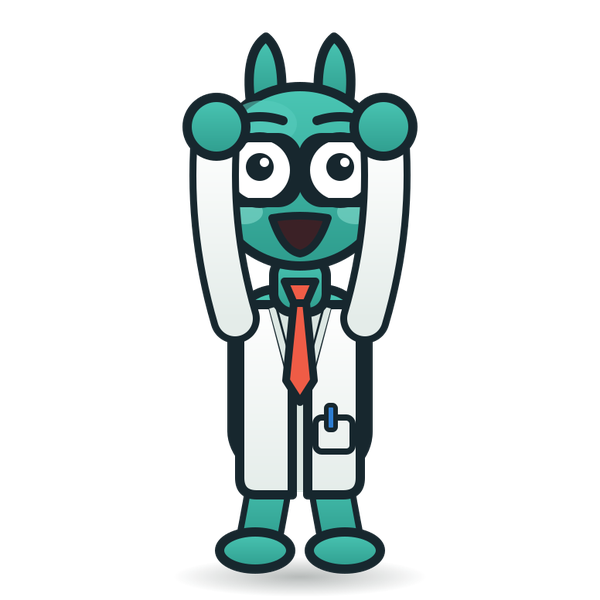
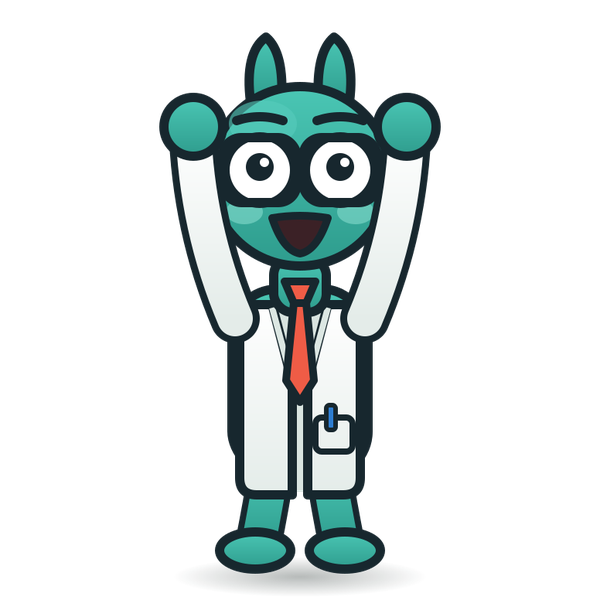
Mascot: hands off his face, and he stops sliding around the screen
Operator, watching a batch: "the fucking mascot's tweaking out all over the
screen all the time. In his hands, they're always covering his face."

Two defects with one cause — poses and motion were each authored against a
mental picture of the rig rather than measured against it.

HANDS ON THE FACE. Swept every pose primitive the director can produce across
its whole arc: 15 of 32 put a hand inside the head disc at some point.
`_a_stretched` ended with a hand 6px from the centre of his face; both of
`_a_overwhelmed`'s hands sat on it; `_a_get_buried`, `_a_pull_down_win`,
`_a_discover`, `_a_climb`, `_a_catch_fall`, `_a_shoved_bar`, `_a_stack_tiles`,
`_a_fail_recover`, `_a_juggle`, `_a_hoist_stack`, `_a_compressed`,
`_a_balance_beam` and `_a_cheer` all crossed it too. Three of the static
expression assets (cheer, shock, think) did as well.

Fixed at the ONE place an arm is drawn — `build_mascot_svg.arm()`, which all 67
pose call sites route through — not by retuning 15 coordinate sets. Nothing had
ever checked a wrist against the head, so every newly authored pose was free to
do it again; a keep-out at the chokepoint is what makes that unrepresentable.
A hand may still TOUCH the edge of his head (hands on the head is a real
gesture) but never cross onto the face.

The push follows the gesture's DOMINANT axis rather than being radial: a hand
reaching sideways goes further out sideways, an overhead reach goes further up.
[…]

Changed region(s): [[0.57, 0.15, 0.75, 0.54], [0.27, 0.15, 0.42, 0.54]]

diff --git a/data_learning/studio_render.py b/data_learning/studio_render.py
@@ -1693,7 +1693,6 @@ def render(slug: str, out_path: Path, voice: str | None = None,
             except Exception:  # noqa: BLE001
                 return "shock"
 
-        entries: dict = {}                 # seq index -> glide start (sweep-in)
         if _clean:
             # MASCOT-FIRST composition. Data is the camera: the video is built
             # around WHERE HE IS and WHAT HE'S DOING. He is NEVER parked — each
@@ -1736,14 +1735,11 @@ def render(slug: str, out_path: Path, voice: str | None = None,
                 except Exception:  # noqa: BLE001
                     hook_perf = gap_fill
             seq = []
-            # entries[k] = where Data's glide STARTS for seq[k] (his sweep-in
-            # point); absent -> he glides from his previous spot. Set for data
-            # beats so he sweeps UP onto the datum (a moving bit + smooth cadence).
-            entries: dict = {}
-
-            def _add(entry_tuple, entry_xy=None):
-                if entry_xy is not None:
-                    entries[len(seq)] = entry_xy
+            # Data no longer glides — he is PLACED at each cut (see the
+            # overlay loop). `_stage_on_data` still returns the old sweep-in
+            # point; it is accepted and ignored so the staging helpers keep one
+            # signature.
+            def _add(entry_tuple, _entry_xy=None):
                 seq.append(entry_tuple)
 
             # When the opening chart leads the hook, Data performs ON it from
@@ -2136,59 +2132,40 @@ def render(slug: str, out_path: Path, voice: str | None = None,
                 n_visuals += 1
         print(f"[studio] {n_visuals} distinct visuals, each shown once",
               flush=True)
-        # Mascots — Data TRAVELS. He glides from his previous spot to this
-        # beat's spot across the WHOLE beat (not a quick slide-then-park), so
-        # his x/y is always changing — he's never static in one place. A gentle
-        # bob rides on top. In CLEAN this traces a path around the frame; in
-        # legacy it still walks between numbers.
-        prev_tl = home
+        # Mascots — Data IS PLACED, HE DOES NOT SLIDE.
+        #
+        # He used to glide from his previous spot to each new one, sweeping in
+        # over the first ~30% of the window. With three beats that was three
+        # moves. The monotonic edit re-stages him on every SPAN so he stays in
+        # contact with whichever depiction is actually on screen — and that
+        # turned three glides into eight, one every four seconds. The operator
+        # watched it: "the fucking mascot's tweaking out all over the screen
+        # all the time."
+        #
+        # Every span boundary is a HARD CUT to a new chart, and a cut is the
+        # one moment repositioning is free — the viewer expects everything to
+        # change. So he is simply THERE, in position, when the new visual
+        # arrives. No travel, no sweep-in, no easing across the cut.
+        #
+        # The reason this is safe now and would not have been before: the glide
+        # existed to keep something moving, because a chart that finished
+        # building and then held was scored as a frozen frame. That is no
+        # longer true — each depiction is built across exactly its own span, so
+        # the charts carry 23.9 effective fps on their own (the floor is 11).
+        # Data's motion is his PERFORMANCE — the sprite is an animated loop of
+        # him acting on the data — which is the motion that was worth having
+        # all along. The frantic version was compensation for a static frame,
+        # and the operator named that too, months ago: "making the mascot moves
+        # its arm a lot to account for the fact that there's not enough
+        # motion."
         for k, (tlx, tly, w0, w1, _a, _f, _p, sc) in enumerate(seq):
             gi = masc_input[k]
-            # Glide across nearly the WHOLE beat (settle only the last ~8%), and
-            # ride a continuous 2D idle on top — a vertical bob plus a small
-            # horizontal sway — so Data is NEVER globally static, even when he's
-            # "parked". A static host is what the temporal grade reads as a held
-            # frame (the payoff's static pose). Keep him alive every frame.
-            # Sweep in FAST (arrive by ~30% of the beat), then hold position and
-            # PERFORM the animated action for the rest — so the sampled frames
-            # catch him ACTING on the data, not endlessly sliding across it.
-            arrive = w0 + max(0.4, (w1 - w0) * 0.30)
-            # A data beat sweeps in from its own entry point (onto the datum);
-            # otherwise Data glides from where he last was.
-            start = entries.get(k, prev_tl)
-            # THE IDLE IS A HOVER NOW, NOT THE GATE'S MOTION SOURCE.
-            #
-            # History, because this line has been retuned twice and each
-            # tuning was right about one constraint and wrong about another.
-            # The original `6*sin(1.3*t)` moved 0.26 px/frame — invisible to
-            # the temporal grade, and the channel posted nothing for eleven
-            # days. The fix cranked it to `30*sin(6.0*t)`: 6 px/frame, gate
-            # satisfied — but 6.0 rad/s is 0.95 Hz at ~1080 px/s^2 of
-            # acceleration, a visible one-per-second jiggle stacked on a
-            # card float wobbling at a different frequency. The operator
-            # watched the shipped videos and called it "a weird shaking
-            # motion". Both tunings chased one number and shipped the other.
-            #
-            # A third tuning moved the budget onto a whole-frame camera
-            # breath and left the mascot a gentle hover. Calmer, still fake,
-            # and the operator called it out again on 2026-08-25: rip the
-            # camera shake out all the way. Both are gone.
-            #
-            # The budget is carried by REAL motion now — struggle reps
-            # through the whole beat (charts._perf_phase) and an anchor that
-            # WALKS the ranking instead of parking when the build finishes
-            # (charts._tour_index). If a beat measures short, it needs more
-            # of that, not a wobble. His glide between beats and his
-            # performed bits are unchanged.
-            # NO HOVER OSCILLATION either (2026-08-25 ruling: "no semblance
-            # of the camera shake"). This 12px/9px sine pair was the last
-            # survivor of the shake family — a sprite bobbing on the spot in
-            # its own phase, which is what made two oscillations read as
-            # "weird shaking" in the first place. His MOTION is his glide to
-            # the beat's anchor (the piecewise below) and the performance
-            # baked into the sprite; neither needs a bob to be alive.
-            xe = f"({_piecewise([(w0, start[0]), (arrive, tlx)], 1)})"
-            ye = f"({_piecewise([(w0, start[1]), (arrive, tly)], 1)})"
+            # NO HOVER OSCILLATION (2026-08-25 ruling: "no semblance of the
+            # camera shake"). A sprite bobbing on the spot in its own phase is
+            # what made two oscillations read as "weird shaking" in the first
+            # place. His position is a constant for the whole span.
+            xe = f"{tlx:.0f}"
+            ye = f"{tly:.0f}"
             Sk = int(round(S * sc))
             off = (Sk - S) // 2            # keep the bigger sprite centred on target
             # HOLD HIM OFF THE PUNCH-INS. When the edit cuts to a datum, the
@@ -2203,7 +2180,6 @@ def render(slug: str, out_path: Path, voice: str | None = None,
                       f"eval=frame:"
                       f"enable='between(t,{w0:.2f},{w1:.2f}){_off_shots}'[mb{k}]")
             prev = f"mb{k}"
-            prev_tl = (tlx, tly)
         # NO CAMERA MOTION. Operator ruling 2026-08-25, verbatim: "that
         # camera shake that keeps plaguing our videos — rip it out all the
         # way, it's a cancer, I want no semblance of the camera shake to

diff --git a/data_learning/tests/test_hands_off_the_face.py b/data_learning/tests/test_hands_off_the_face.py
@@ -1,0 +1,145 @@
+"""No hand ever crosses onto Data's face, and he does not slide around.
+
+Both of these are operator findings from watching shipped videos:
+
+    "the fucking mascot's tweaking out all over the screen all the time.
+     In his hands, they're always covering his face."
+
+Two separate defects with one common cause — poses and motion were each
+authored against a mental picture rather than measured against the rig:
+
+  * HANDS ON THE FACE. Measured across every pose primitive the director can
+    produce, 15 of 32 put a hand inside the head disc at some point in its arc.
+    `_a_stretched` ended with a hand 6px from the centre of his face and
+    `_a_overwhelmed` put BOTH there. Nothing had ever checked a wrist against
+    the head, so each new authored pose was free to do it again — which is why
+    the fix is a keep-out at the ONE place an arm is drawn, and why this test
+    sweeps every primitive rather than the handful that were visibly wrong.
+  * SLIDING. He glided into position at the start of every window. With three
+    beats that was three moves; the monotonic edit re-stages him per SPAN, so
+    it became eight — one every four seconds.
+
+Runs with pytest OR standalone:
+    python3 data_learning/tests/test_hands_off_the_face.py
+"""
+from __future__ import annotations
+
+import inspect
+import math
+import re
+import sys
+import unittest
+from pathlib import Path
+
+_REPO = Path(__file__).resolve().parents[2]
+if str(_REPO) not in sys.path:
+    sys.path.insert(0, str(_REPO))
+
+import matplotlib  # noqa: E402
+matplotlib.use("Agg")
+
+from data_learning import mascot_director as md  # noqa: E402
+from scripts import build_mascot_svg as rig  # noqa: E402
+
+_STUDIO = (_REPO / "data_learning" / "studio_render.py").read_text()
+_HAND = re.compile(r'<circle cx="([-\d.]+)" cy="([-\d.]+)" r="19"')
+
+
+def _flat(o) -> str:
+    if isinstance(o, str):
+        return o
+    if isinstance(o, (list, tuple)):
+        return "".join(_flat(x) for x in o)
+    return ""
+
+
+def _primitives():
+    for name, fn in sorted(vars(md).items()):
+        if not (name.startswith("_a_") and callable(fn) and name != "_a_pose"):
+            continue
+        try:
+            if len(inspect.signature(fn).parameters) != 2:
+                continue
+        except (TypeError, ValueError):
+            continue
+        yield name, fn
+
+
+def _hands(svg: str):
+    for m in _HAND.finditer(svg):
+        yield float(m.group(1)), float(m.group(2))
+
+
+class HandsOffTheFace(unittest.TestCase):
+    def test_no_primitive_ever_puts_a_hand_on_the_face(self):
+        """The whole arc of every pose, not just its resting frame. Several of
+        these were clean at t=0 and t=1 and covered his face in the middle."""
+        worst = {}
+        for name, fn in _primitives():
+            for i in range(81):
+                try:
+                    svg = _flat(fn(i / 80.0, "price_tag"))
+                except Exception:  # noqa: BLE001 — a broken prim is another test
+                    break
+                for x, y in _hands(svg):
+                    d = math.hypot(x - rig.HEAD_C[0], y - rig.HEAD_C[1])
+                    if d < rig.FACE_KEEPOUT:
+                        worst[name] = min(worst.get(name, 1e9), round(d, 1))
+        self.assertEqual(worst, {},
+                         f"hands on the face (keep-out {rig.FACE_KEEPOUT}): {worst}")
+
+    def test_the_presets_and_the_static_expressions_are_clear_too(self):
+        for name in md.POSE_PRESETS:
+            spec = md.author_performance("cost", name, "", "bars")
+            for x, y in _hands(_flat(md.compose_svg(spec))):
+                d = math.hypot(x - rig.HEAD_C[0], y - rig.HEAD_C[1])
+                self.assertGreaterEqual(d, rig.FACE_KEEPOUT, f"{name}: {d}")
+
+    def test_the_keepout_is_enforced_at_the_one_place_arms_are_drawn(self):
+        """Fixing the 15 offending coordinate sets by hand would leave the next
+        authored pose free to do it again. Every pose in the system routes
+        through `arm()`, so that is where the constraint lives."""
+        src = inspect.getsource(rig.arm)
+        self.assertIn("_off_face", src)
+
+    def test_a_wrist_shoved_into_the_face_comes_back_out(self):
+        for wx, wy in ((170, 114), (170, 120), (141, 123), (206, 114),
+                       (152, 84), (130, 90)):
+            ox, oy = rig._off_face(wx, wy)
+            d = math.hypot(ox - rig.HEAD_C[0], oy - rig.HEAD_C[1])
+            self.assertGreaterEqual(d, rig.FACE_KEEPOUT, f"({wx},{wy})->({ox},{oy})")
+
+    def test_the_push_keeps_the_gesture_pointing_where_it_was(self):
+        """A radial push would rotate the gesture; for the overhead grips it
+        would also slide the hand off the chart element it is baked onto. A
+        sideways reach stays sideways, an overhead reach stays overhead."""
+        ox, _ = rig._off_face(206, 114)          # reaching right
+        self.assertGreater(ox, rig.HEAD_C[0], "a rightward reach went left")
+        _, oy = rig._off_face(152, 84)           # reaching up
+        self.assertLess(oy, rig.HEAD_C[1], "an overhead reach came down")
+
+    def test_a_hand_already_clear_is_left_exactly_alone(self):
+        for wx, wy in ((70, 300), (260, 250), (170, 400)):
+            self.assertEqual(rig._off_face(wx, wy), (wx, wy))
+
+
+class HeDoesNotSlide(unittest.TestCase):
+    def test_the_host_holds_one_position_for_a_whole_span(self):
+        """His overlay x/y must be constants. A `_piecewise` there is the
+        sweep-in returning: eight of them in a video is the 'tweaking out all
+        over the screen' the operator watched."""
+        blk = _STUDIO[_STUDIO.index("Mascots — Data IS PLACED"):]
+        blk = blk[:blk.index("NO CAMERA MOTION")]
+        self.assertNotIn("_piecewise", blk, "the glide is back")
+        self.assertIn('xe = f"{tlx:.0f}"', blk)
+        self.assertIn('ye = f"{tly:.0f}"', blk)
+
+    def test_no_oscillation_rides_on_top(self):
+        blk = _STUDIO[_STUDIO.index("Mascots — Data IS PLACED"):]
+        blk = blk[:blk.index("NO CAMERA MOTION")]
+        for bad in ("sin(", "cos("):
+            self.assertNotIn(bad, blk, f"{bad} is a bob/sway coming back")
+
+
+if __name__ == "__main__":
+    unittest.main(verbosity=2)

diff --git a/scripts/build_mascot_svg.py b/scripts/build_mascot_svg.py
@@ -20,6 +20,7 @@ new arm coordinates, nothing more.
 from __future__ import annotations
 
 import sys
+import math
 from pathlib import Path
 
 ROOT = Path(__file__).resolve().parent.parent
@@ -51,7 +52,51 @@ def limb(sx, sy, wx, wy, bend, w_out, w_in, hand_r, inner=TEAL, hand=TEAL):
     return s
 
 
+# THE FACE IS NOT A SURFACE FOR HANDS.
+#
+# Operator, after watching a batch: "his hands, they're always covering his
+# face." Measured across every pose primitive the director can produce, 15 of
+# 32 put a hand inside the head disc at some point in their arc — `_a_stretched`
+# ends with a hand 6px from the centre of his face, and `_a_overwhelmed` puts
+# BOTH there. The poses were authored one at a time against a mental picture of
+# the rig, and nothing ever checked them against the head.
+#
+# So the constraint lives at the ONE place an arm is drawn rather than in 32
+# hand-tuned coordinate sets: every pose in the system — the presets, the
+# brain-authored ones, and all the contact animations — routes through `arm()`.
+# Fixing the coordinates one by one would leave the next authored pose free to
+# do it again.
+HEAD_C = (CX, 114.0)               # the head circle, from head() below
+HEAD_R = 58.0
+HAND_R = 19.0
+# A hand may TOUCH the edge of his head — hands on the head is a real gesture —
+# but never cross onto the face.
+# Rounded UP to a whole pixel: the wrist coordinates are rounded to integers
+# for the SVG path, and pushing to the exact threshold left hands sitting
+# 0.1-0.4px inside it — 53 sub-pixel violations that a >= test still catches.
+FACE_KEEPOUT = float(math.ceil(HEAD_R + HAND_R * 0.55))
+
+
+def _off_face(wx, wy):
+    """Move a wrist out of the face, keeping the gesture's meaning.
+
+    The push follows the gesture's DOMINANT axis: a hand reaching sideways is
+    sent further out to the side, a hand reaching overhead further up. A radial
+    push (the obvious implementation) rotates the gesture instead, and for the
+    overhead grips it would also slide the hand off the chart element it is
+    baked onto — those poses put both fists on a line's tip, and STRICT_CONTACT
+    is judging exactly that contact.
+    """
+    dx, dy = wx - HEAD_C[0], wy - HEAD_C[1]
+    if (dx * dx + dy * dy) ** 0.5 >= FACE_KEEPOUT:
+        return wx, wy
+    if abs(dx) > abs(dy):          # reaching sideways -> further out sideways
+        return round(HEAD_C[0] + (FACE_KEEPOUT if dx >= 0 else -FACE_KEEPOUT)), wy
+    return wx, round(HEAD_C[1] + (FACE_KEEPOUT if dy > 0 else -FACE_KEEPOUT))
+
+
 def arm(sx, sy, wx, wy, bend):
+    wx, wy = _off_face(wx, wy)
     return limb(sx, sy, wx, wy, bend, 32, 23, 19, inner=COAT, hand=TEAL)
 
 
